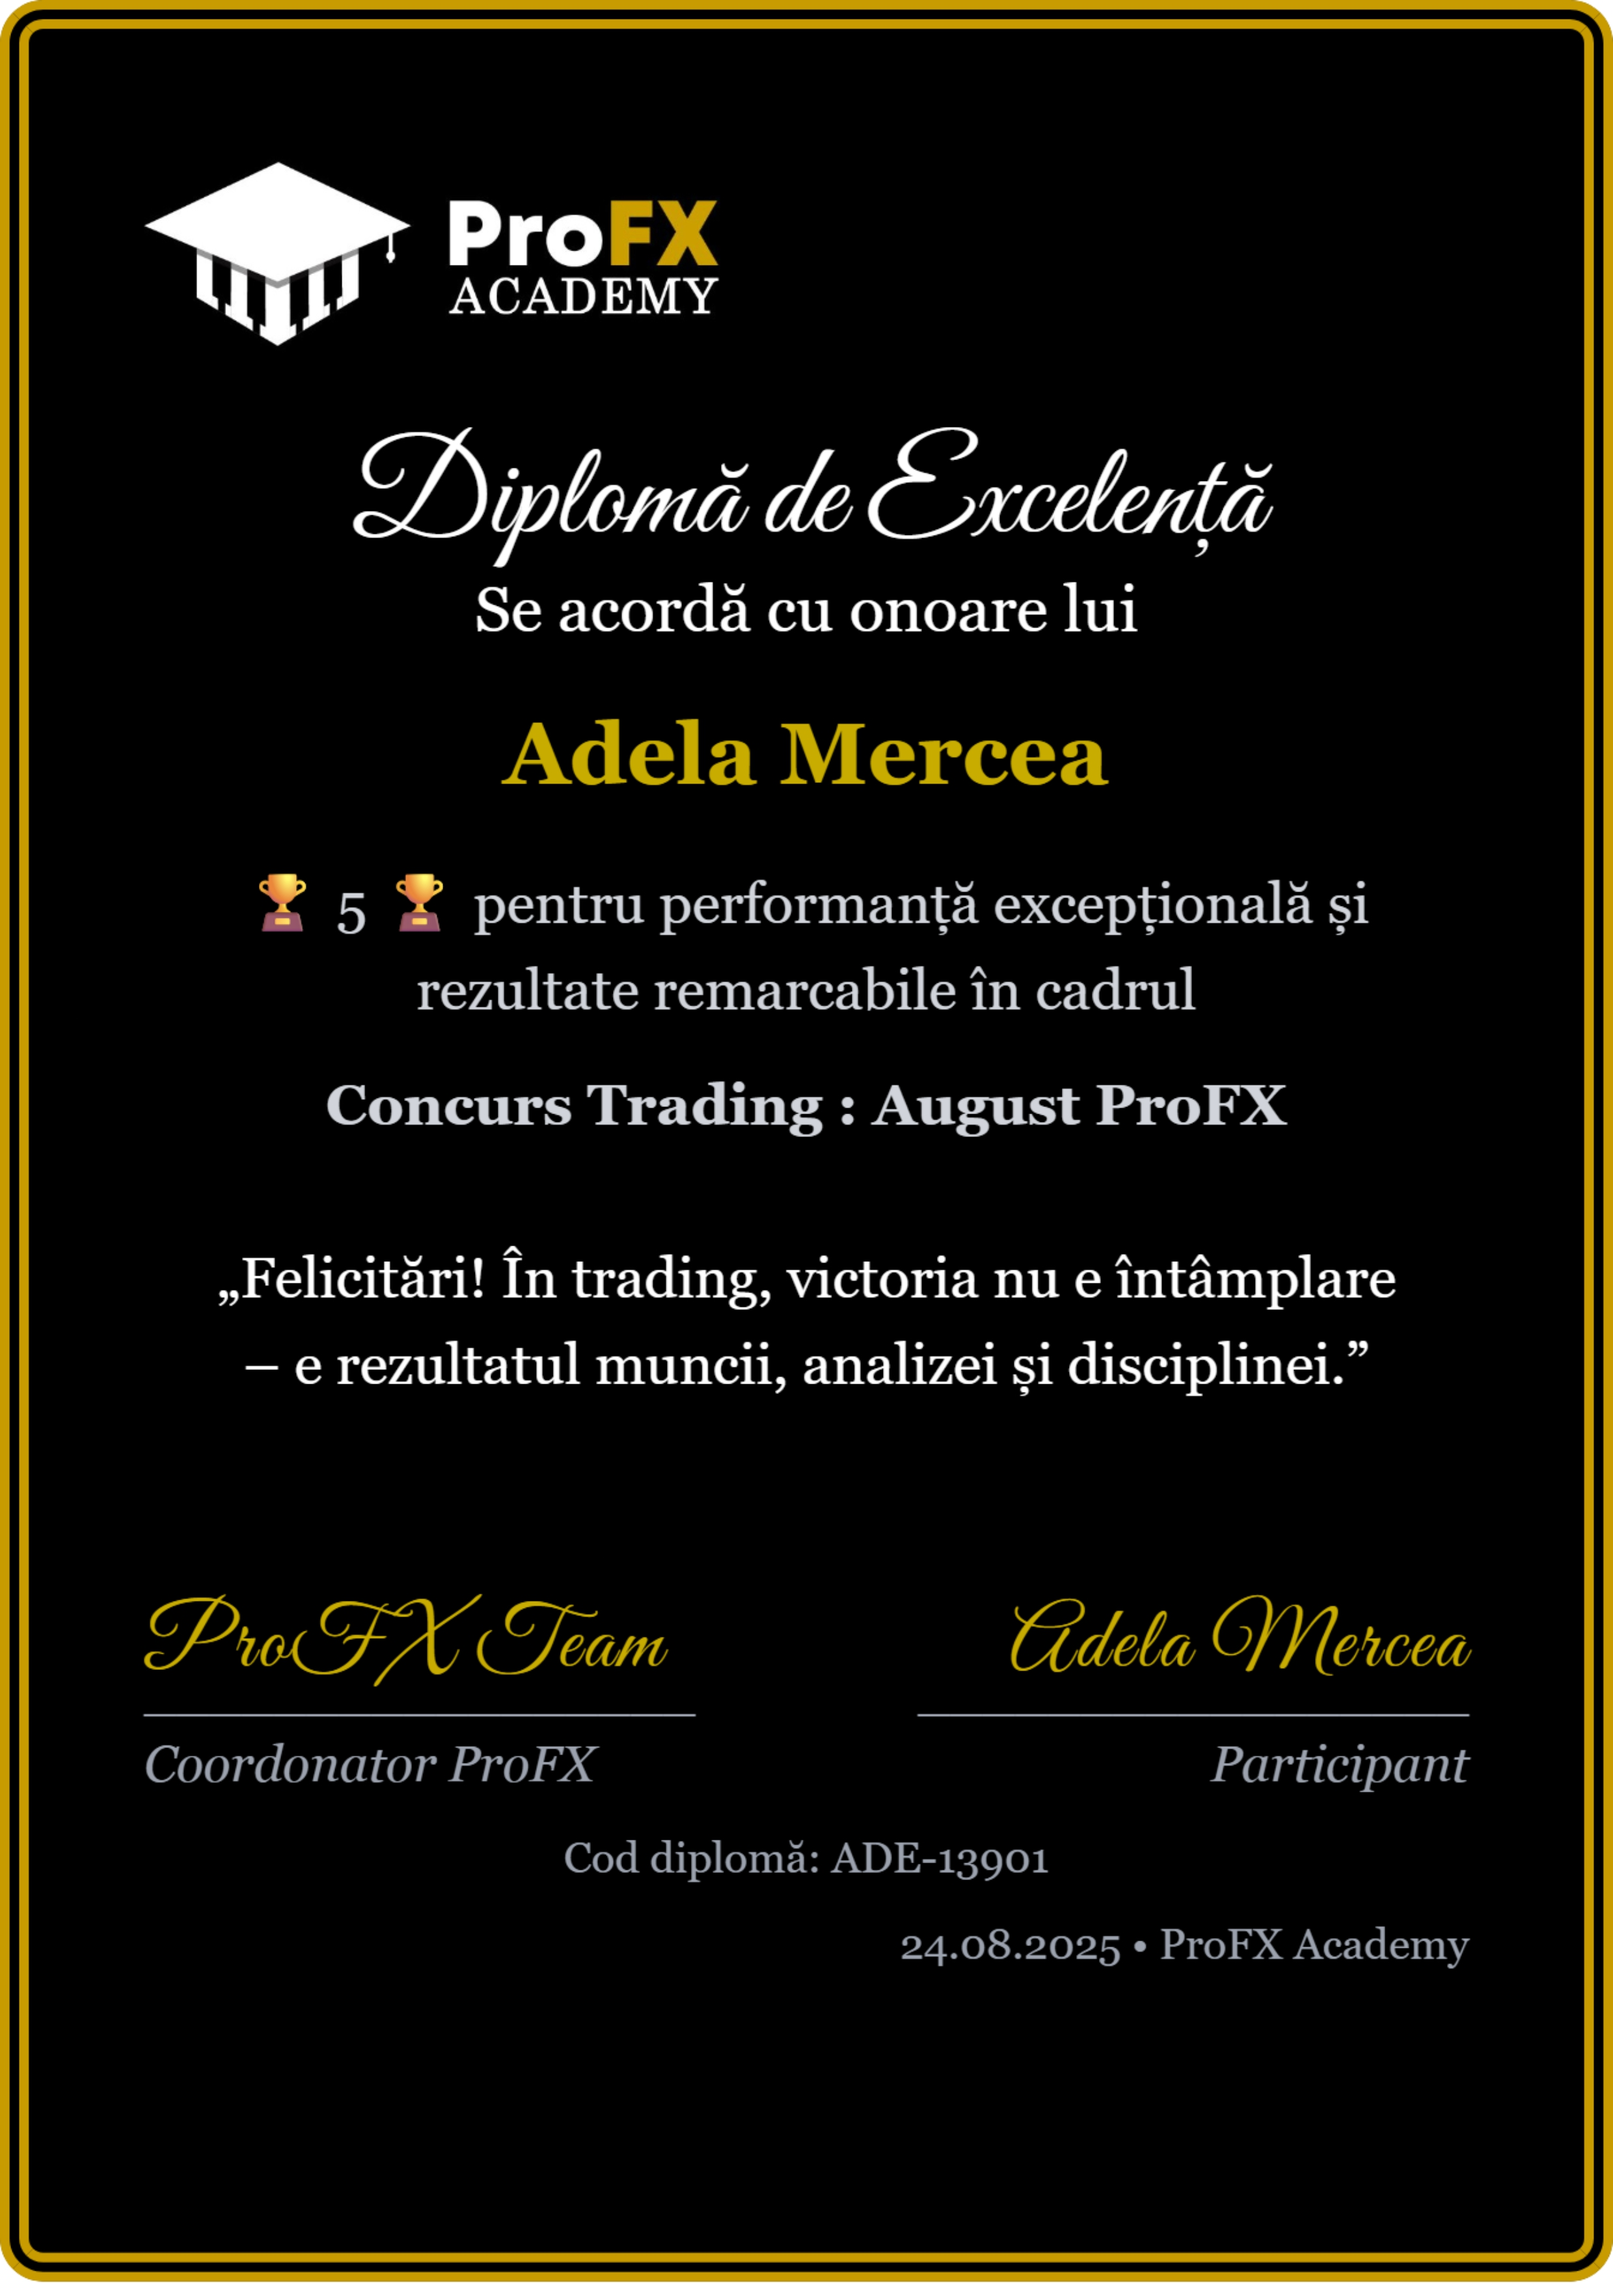
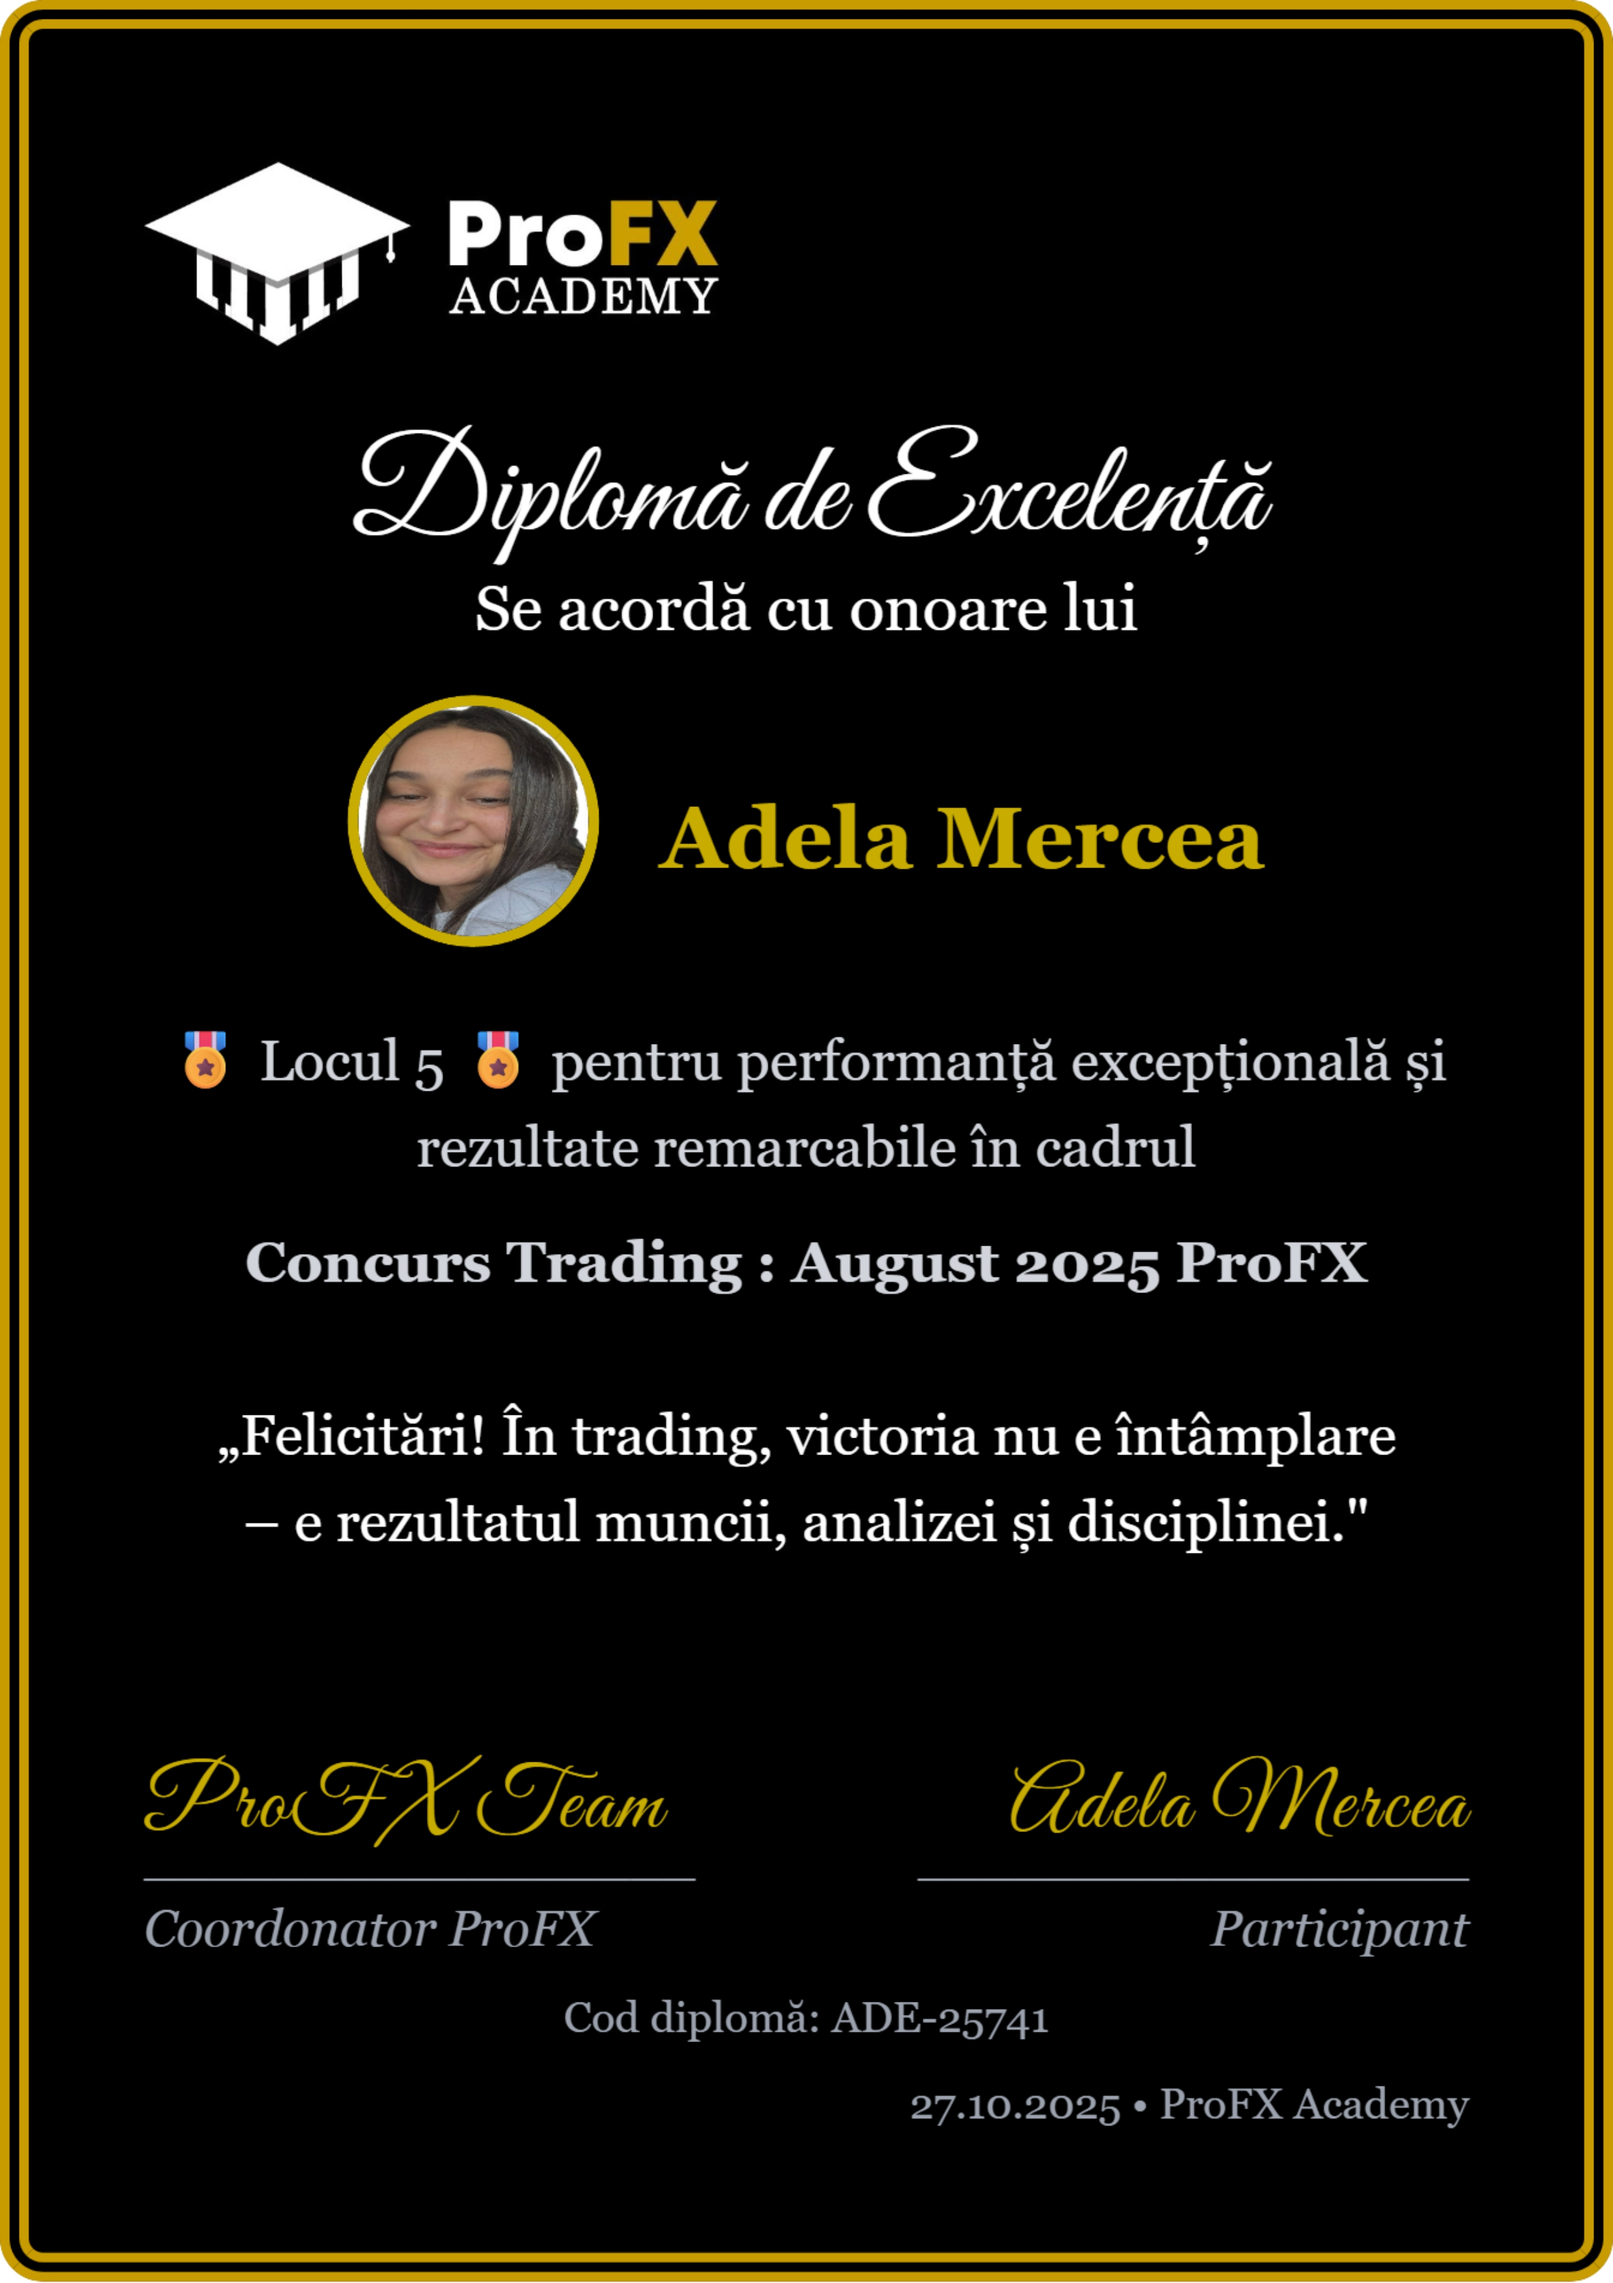
added photos to the diploma for few winners

Changed region(s): [[0.0932, 0.1864, 0.9318, 0.9322], [0.528, 0.1864, 0.7765, 0.2796], [0.1553, 0.3729, 0.1864, 0.435]]

diff --git a/src/components/ui/Carusel.jsx b/src/components/ui/Carusel.jsx
@@ -26,6 +26,11 @@ import septembrie2 from "../../utils/Septembrie2.jpg";
 import septembrie3 from "../../utils/Septembrie3.jpg";
 import septembrie4 from "../../utils/Septembrie4.jpg";
 import septembrie5 from "../../utils/Septembrie5.jpg";
+import octombrie1 from "../../utils/Octombrie 1.jpg";
+import octombrie2 from "../../utils/Octombrie 2.jpg";
+import octombrie3 from "../../utils/Octombrie 3.jpg";
+import octombrie4 from "../../utils/Octombrie 4.jpg";
+import octombrie5 from "../../utils/Octombrie 5.jpg";
 
 const hallOfFame = [
   { img: aprilie1, name: "Ciprian Penisoara", title: " Locul 1 Aprile 2025" },
@@ -53,6 +58,15 @@ const hallOfFame = [
   },
   { img: septembrie4, name: "Erik Cirstea", title: "Locul 4 Septembrie 2025" },
   { img: septembrie5, name: "Adela Mercea", title: "Locul 5 Septembrie 2025" },
+  { img: octombrie1, name: "Mihai Ilie", title: "Locul 1 Octombrie 2025" },
+  { img: octombrie2, name: "Adela Mercea", title: "Locul 2 Octombrie 2025" },
+  {
+    img: octombrie3,
+    name: "Adrian Crainic",
+    title: "Locul 3 Octombrie 2025",
+  },
+  { img: octombrie4, name: "Marius Sebastian Gheorghita", title: "Locul 4 Octombrie 2025" },
+  { img: octombrie5, name: "Marian Musoiu", title: "Locul 5 Octombrie 2025" },
 ];
 
 const HallOfFameCarousel = () => {
